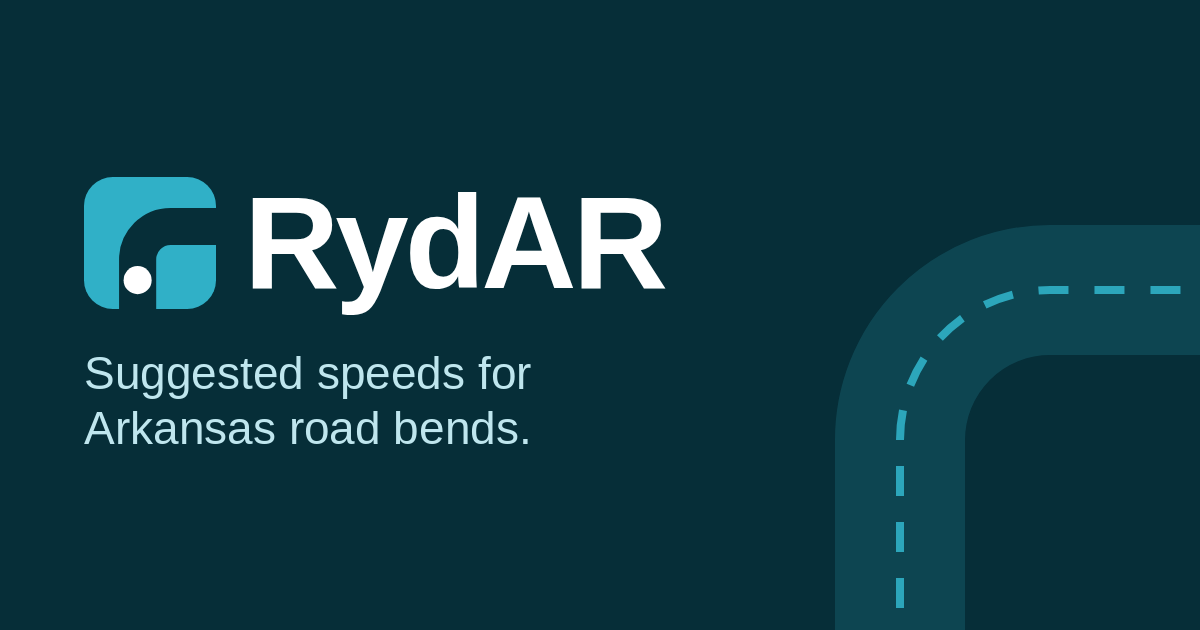
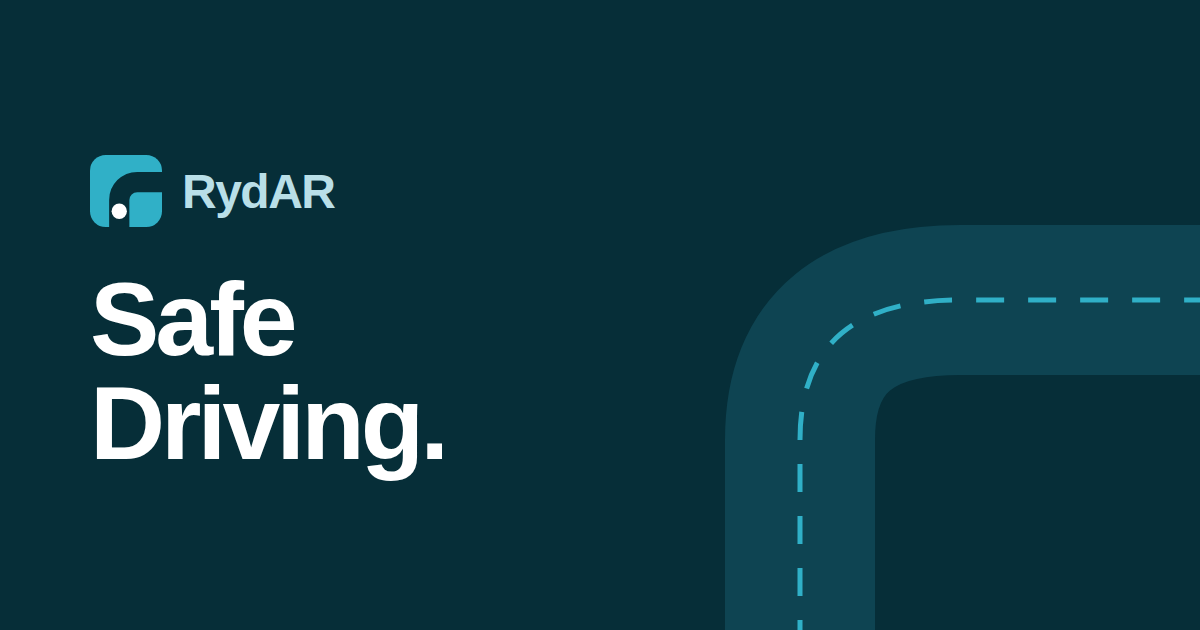
Add SEO metadata, sitemap, robots, manifest, and a minimalist OG image
Set the site title to RydAR: Safe Driving.

Changed region(s): [[0.0617, 0.2413, 0.555, 0.7841], [0.5858, 0.3317, 1.0, 1.0], [0.7708, 0.5127, 0.8017, 0.5429]]

diff --git a/web/public/index.html b/web/public/index.html
@@ -3,20 +3,82 @@
 <head>
   <meta charset="utf-8">
   <meta name="viewport" content="width=device-width, initial-scale=1">
-  <title>RydAR</title>
-  <meta name="description" content="Suggested speeds for the tight curves on Arkansas roads, and a free iPhone app that warns you before them.">
+  <title>RydAR: Safe Driving</title>
+  <meta name="description" content="Free map of suggested speeds for tight curves on Arkansas roads, plus the RydAR iPhone app that warns you before each bend. Safe driving, one curve at a time.">
+  <meta name="robots" content="index, follow, max-image-preview:large, max-snippet:-1">
+  <meta name="keywords" content="Arkansas curves, curve speed, safe driving, curve warning app, suggested speed, Arkansas roads, iPhone driving app, RydAR">
+  <meta name="application-name" content="RydAR">
+  <meta name="apple-mobile-web-app-title" content="RydAR">
+  <meta name="theme-color" content="#062e38">
+  <meta name="geo.region" content="US-AR">
+  <meta name="geo.placename" content="Arkansas">
+  <link rel="canonical" href="https://rydar.org/">
+  <link rel="manifest" href="/manifest.webmanifest">
   <meta property="og:type" content="website">
   <meta property="og:site_name" content="RydAR">
-  <meta property="og:title" content="RydAR">
-  <meta property="og:description" content="Suggested speeds for the tight curves on Arkansas roads, and a free iPhone app that warns you before them.">
+  <meta property="og:locale" content="en_US">
+  <meta property="og:title" content="RydAR: Safe Driving">
+  <meta property="og:description" content="Free map of suggested speeds for tight curves on Arkansas roads, plus the RydAR iPhone app that warns you before each bend. Safe driving, one curve at a time.">
   <meta property="og:url" content="https://rydar.org/">
   <meta property="og:image" content="https://rydar.org/og-image.png">
+  <meta property="og:image:secure_url" content="https://rydar.org/og-image.png">
   <meta property="og:image:type" content="image/png">
   <meta property="og:image:width" content="1200">
   <meta property="og:image:height" content="630">
-  <meta property="og:image:alt" content="RydAR logo beside a bending road, with the line Suggested speeds for Arkansas road bends.">
+  <meta property="og:image:alt" content="RydAR logo and the words Safe Driving beside a bending road.">
   <meta name="twitter:card" content="summary_large_image">
+  <meta name="twitter:title" content="RydAR: Safe Driving">
+  <meta name="twitter:description" content="Free map of suggested speeds for tight curves on Arkansas roads, plus the RydAR iPhone app that warns you before each bend. Safe driving, one curve at a time.">
   <meta name="twitter:image" content="https://rydar.org/og-image.png">
+  <meta name="twitter:image:alt" content="RydAR logo and the words Safe Driving beside a bending road.">
+  <script type="application/ld+json">
+  {
+    "@context": "https://schema.org",
+    "@graph": [
+      {
+        "@type": "WebSite",
+        "@id": "https://rydar.org/#website",
+        "url": "https://rydar.org/",
+        "name": "RydAR: Safe Driving",
+        "alternateName": "RydAR",
+        "description": "Free map of suggested speeds for tight curves on Arkansas roads, plus the RydAR iPhone app that warns you before each bend. Safe driving, one curve at a time.",
+        "inLanguage": "en-US"
+      },
+      {
+        "@type": "WebApplication",
+        "@id": "https://rydar.org/#map",
+        "name": "RydAR Arkansas Curve Map",
+        "url": "https://rydar.org/",
+        "applicationCategory": "NavigationApplication",
+        "operatingSystem": "Any",
+        "browserRequirements": "Requires JavaScript",
+        "isAccessibleForFree": true,
+        "offers": { "@type": "Offer", "price": "0", "priceCurrency": "USD" },
+        "image": "https://rydar.org/og-image.png",
+        "isPartOf": { "@id": "https://rydar.org/#website" }
+      },
+      {
+        "@type": "MobileApplication",
+        "@id": "https://rydar.org/#app",
+        "name": "RydAR",
+        "description": "A free iPhone app that warns you before tight curves on Arkansas roads.",
+        "applicationCategory": "NavigationApplication",
+        "operatingSystem": "iOS",
+        "downloadUrl": "https://testflight.apple.com/join/WRKVeXwc",
+        "image": "https://rydar.org/og-image.png",
+        "offers": { "@type": "Offer", "price": "0", "priceCurrency": "USD" }
+      },
+      {
+        "@type": "Organization",
+        "@id": "https://rydar.org/#org",
+        "name": "RydAR",
+        "url": "https://rydar.org/",
+        "logo": "https://rydar.org/apple-touch-icon.png",
+        "sameAs": ["https://github.com/aravhawk/RydAR"]
+      }
+    ]
+  }
+  </script>
   <script>
     (() => {
       localStorage.removeItem("rydar.theme");
@@ -88,6 +150,7 @@
     }
     :focus-visible { outline: 3px solid var(--focus); outline-offset: 2px; }
 
+    .seo { position: absolute; width: 1px; height: 1px; margin: -1px; padding: 0; overflow: hidden; clip: rect(0 0 0 0); clip-path: inset(50%); white-space: nowrap; border: 0; }
     aside {
       position: absolute;
       z-index: 2;
@@ -339,6 +402,13 @@
     </section>
 
   </aside>
+
+  <section class="seo" aria-label="About RydAR">
+    <h2>RydAR: Safe Driving on Arkansas roads</h2>
+    <p>RydAR is a free map of suggested speeds for the tight curves on Arkansas roads, across all 75 counties, paved and unpaved. Pick a county, tap a curve, and see the suggested speed for that bend.</p>
+    <p>The RydAR iPhone app warns you before each curve while you drive. Join the free beta on TestFlight.</p>
+    <noscript><p>The interactive map needs JavaScript. Turn it on to browse curves by county and road name.</p></noscript>
+  </section>
 
   <main id="map" aria-label="Map of Arkansas curves">
     <p class="map-hint" id="hint">Click a county, then click a curve.</p>

diff --git a/tools/og-image.html b/tools/og-image.html
@@ -1,0 +1,31 @@
+<!doctype html>
+<meta charset="utf-8">
+<style>
+  * { box-sizing: border-box; margin: 0; }
+  html, body { width: 1200px; height: 630px; overflow: hidden; }
+  body {
+    position: relative;
+    font-family: "Liberation Sans", Helvetica, Arial, sans-serif;
+    color: #fff;
+    background: #062e38;
+  }
+  svg.road { position: absolute; inset: 0; }
+  .copy { position: absolute; left: 90px; top: 0; bottom: 0; display: flex; flex-direction: column; justify-content: center; }
+  .brand { display: flex; align-items: center; gap: 20px; }
+  .brand svg { width: 72px; height: 72px; }
+  .brand b { font-size: 48px; letter-spacing: -1.5px; color: #b9dfe8; }
+  h1 { margin-top: 40px; font-size: 104px; line-height: 1; letter-spacing: -4px; }
+</style>
+<body>
+<svg class="road" width="1200" height="630" viewBox="0 0 1200 630">
+  <path d="M 800 700 L 800 440 C 800 340 860 300 960 300 L 1260 300" fill="none" stroke="#0e4452" stroke-width="150"/>
+  <path d="M 800 700 L 800 440 C 800 340 860 300 960 300 L 1260 300" fill="none" stroke="#30b0c7" stroke-width="5" stroke-dasharray="28 24"/>
+</svg>
+<div class="copy">
+  <div class="brand">
+    <svg viewBox="0 0 64 64"><defs><clipPath id="t"><rect width="64" height="64" rx="14"/></clipPath></defs><g clip-path="url(#t)"><rect width="64" height="64" fill="#30B0C7"/><path d="M26 72V40A16 16 0 0 1 42 24H72" fill="none" stroke="#062E38" stroke-width="18"/><circle cx="26" cy="50" r="6.8" fill="#fff"/></g></svg>
+    <b>RydAR</b>
+  </div>
+  <h1>Safe<br>Driving.</h1>
+</div>
+</body>
